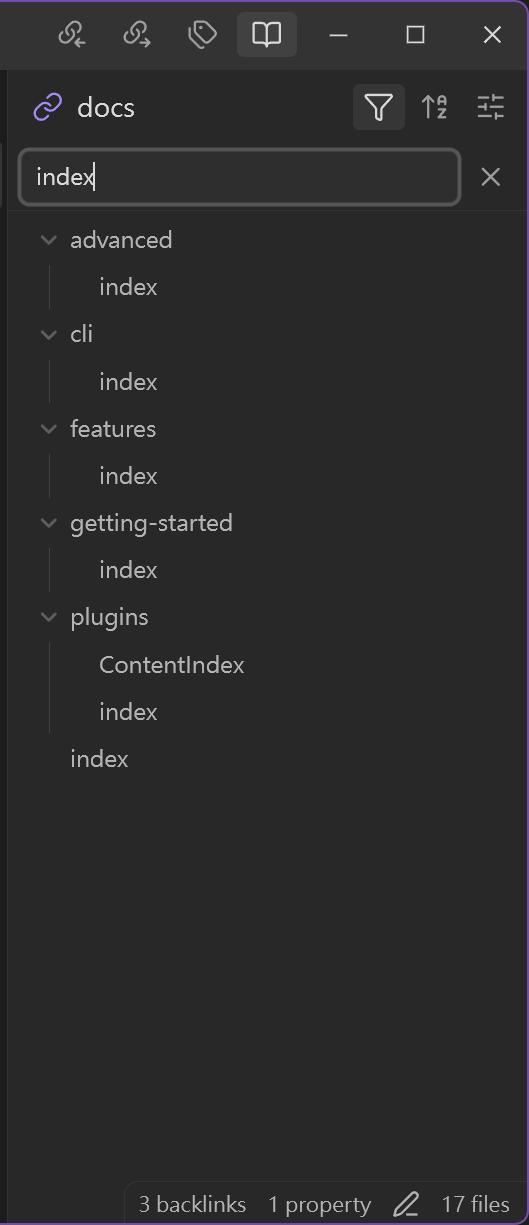
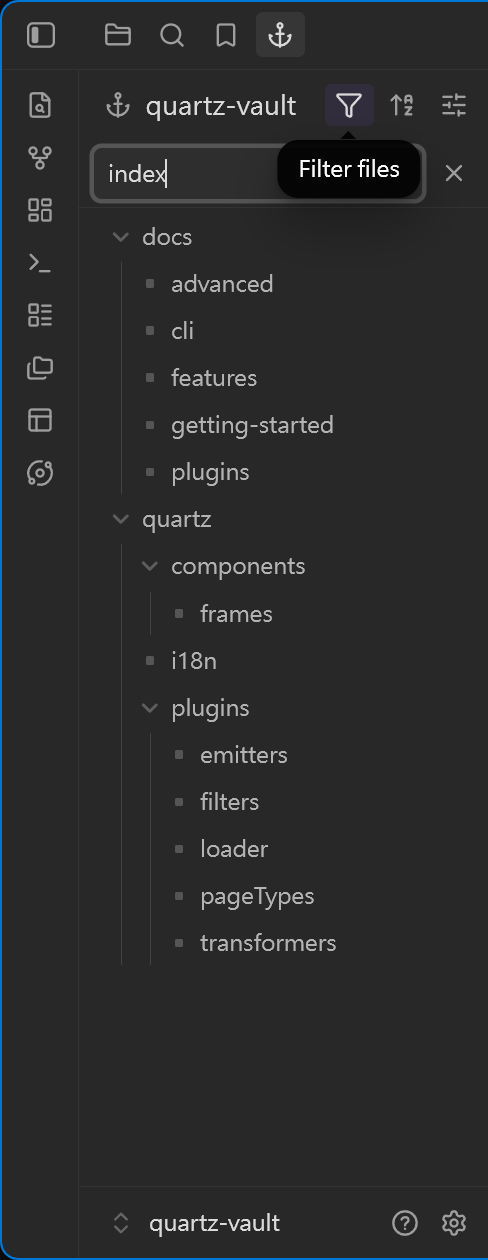
docs(readme): drop BRAT/manual install and use-case sections
- Installation now only documents the community plugin flow; the
  `(Recommended)` marker is gone as there is a single path.
- Removed the Use Cases & Workflows section (and its TOC entry) in all
  three locales.
- Refreshed the header-actions and presets showcase screenshots.

diff --git a/README.md b/README.md
@@ -25,7 +25,6 @@ Desktop only. Requires Obsidian **1.13.0+**.
 - [Cascading Panel Binding & In-place Drill-down](#cascading-panel-binding--in-place-drill-down)
 - [Installation](#-installation)
 - [Usage & Quick Reference](#usage--quick-reference)
-- [Use Cases & Workflows](#use-cases--workflows)
 - [Settings](#settings)
 - [Developer API](#developer-api)
 - [Compatibility & License](#compatibility--license)
@@ -185,23 +184,11 @@ Folder Space splits folder rows into three distinct hit zones to ensure predicta
 
 ## 📥 Installation
 
-### From Obsidian Community Plugins *(Recommended)*
+### From Obsidian Community Plugins
 1. Open Obsidian **Settings** > **Community plugins**.
 2. Turn off Restricted mode and click **Browse**.
 3. Search for **Folder Spaces**.
 4. Click **Install**, then click **Enable**.
-
-### Via BRAT (Beta Testing)
-1. Install the [BRAT plugin](https://github.com/TfTHacker/obsidian42-brat) from Community Plugins.
-2. Open Command Palette (`Ctrl/Cmd + P`) and run **`BRAT: Add a beta plugin for testing`**.
-3. Enter the repository URL: `https://github.com/edwardsayer/obsidian-folder-spaces`.
-4. Click **Add Plugin** and enable **Folder Spaces** once installed.
-
-### Manual Installation
-1. Download `main.js`, `manifest.json`, and `styles.css` from the latest [GitHub Release](https://github.com/edwardsayer/obsidian-folder-spaces/releases).
-2. Inside your vault, create the plugin folder: `<vault>/.obsidian/plugins/folder-spaces/`.
-3. Copy the downloaded files into this directory.
-4. Reload Obsidian (`Ctrl/Cmd + R`) and enable **Folder Spaces** in **Settings > Community plugins**.
 
 ---
 
@@ -227,21 +214,6 @@ Folder Space splits folder rows into three distinct hit zones to ensure predicta
 | **Filter Path** | Header filter button | Live substring search within current folder scope |
 | **Sort Items** | Header sort button | Sort by Name, Created, or Modified (Ascending / Descending) |
 | **View Settings** | Header settings icon | Switch Tree/Flat, Depth (1/2/All), Content, or Presets |
-
----
-
-## Use Cases & Workflows
-
-Think of each Folder Space as a **focus room** for one project, topic, or workflow:
-
-- **Project workbench** (`Projects/<name>`): Root a Folder Space at the active project. Every spec, note, and resource of that project is one tree away, while unrelated projects stay out of view.
-- **Writing & content** (`Writing/`): Open the writing folder in its own space — use `Contents`/`Files` presets or Flat view to see all drafts as a clean list.
-- **Research & literature** (`Research/`): Isolate a literature or topic folder so reading notes and sources stay in one focused context.
-- **Flat-structure scanning**: For deeply nested folders, switch to Flat view to see every subfolder (labeled with its relative path) and its files in one glance.
-- **Side-by-side reading**: Place a Folder Space in the editor area and enable **Always open in other panel** so normal file clicks open in the adjacent content pane.
-- **Multi-panel cascade**: Chain a `Navigate` (or `Columns`) folder-only navigator → a `Context` bridge → a `Contents`/`Files` terminal to drill through a large structure step by step while keeping each level focused.
-- **Distraction-free deep work**: Open a Folder Space in a new window on a second monitor to keep a task fully separated from the main workspace.
-- **Single-vault, multi-project workspace**: Combine Folder Spaces with Window Spaces — each project gets a folder-scoped explorer and a saved window arrangement, switched like project "rooms".
 
 ---
 
